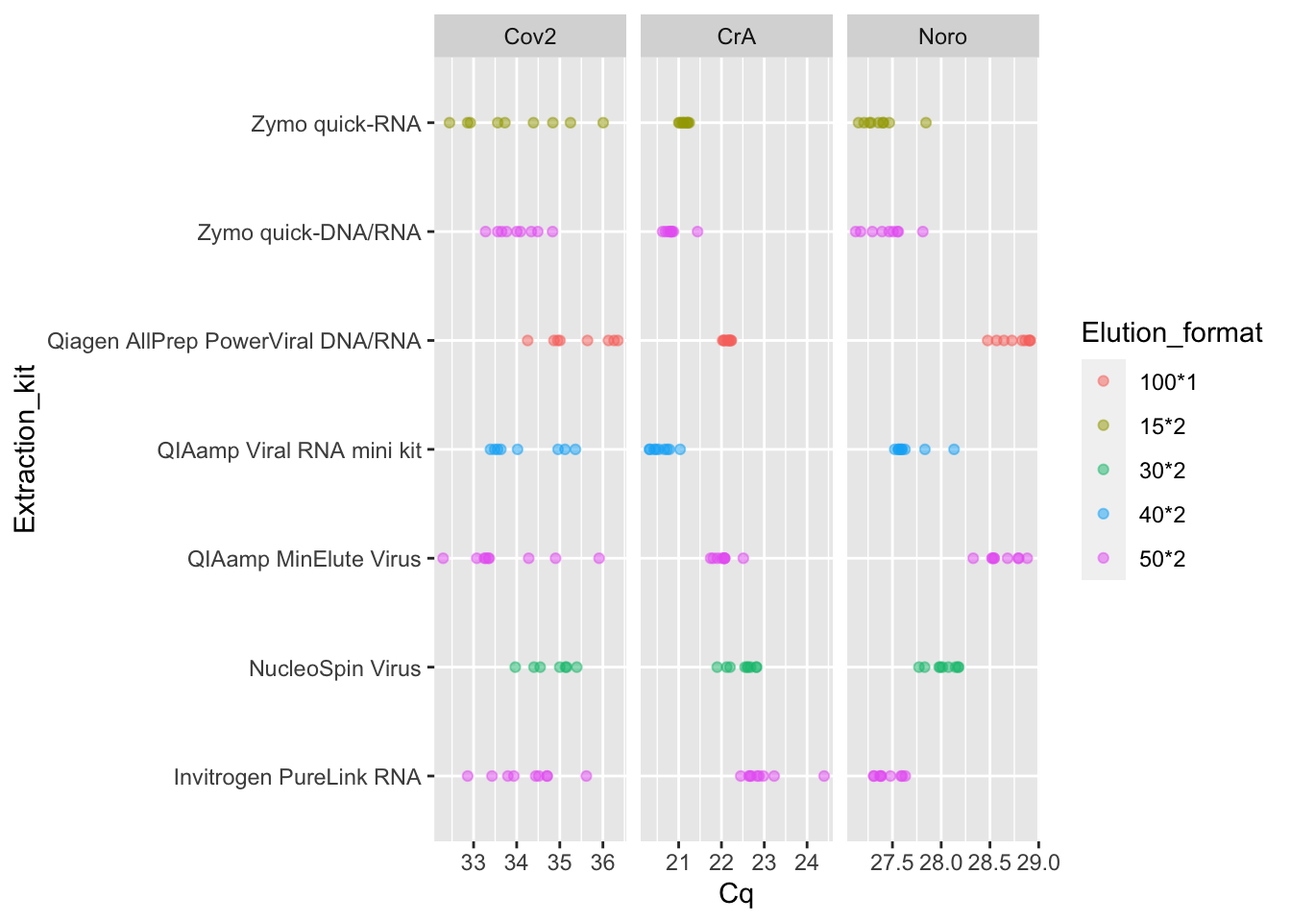
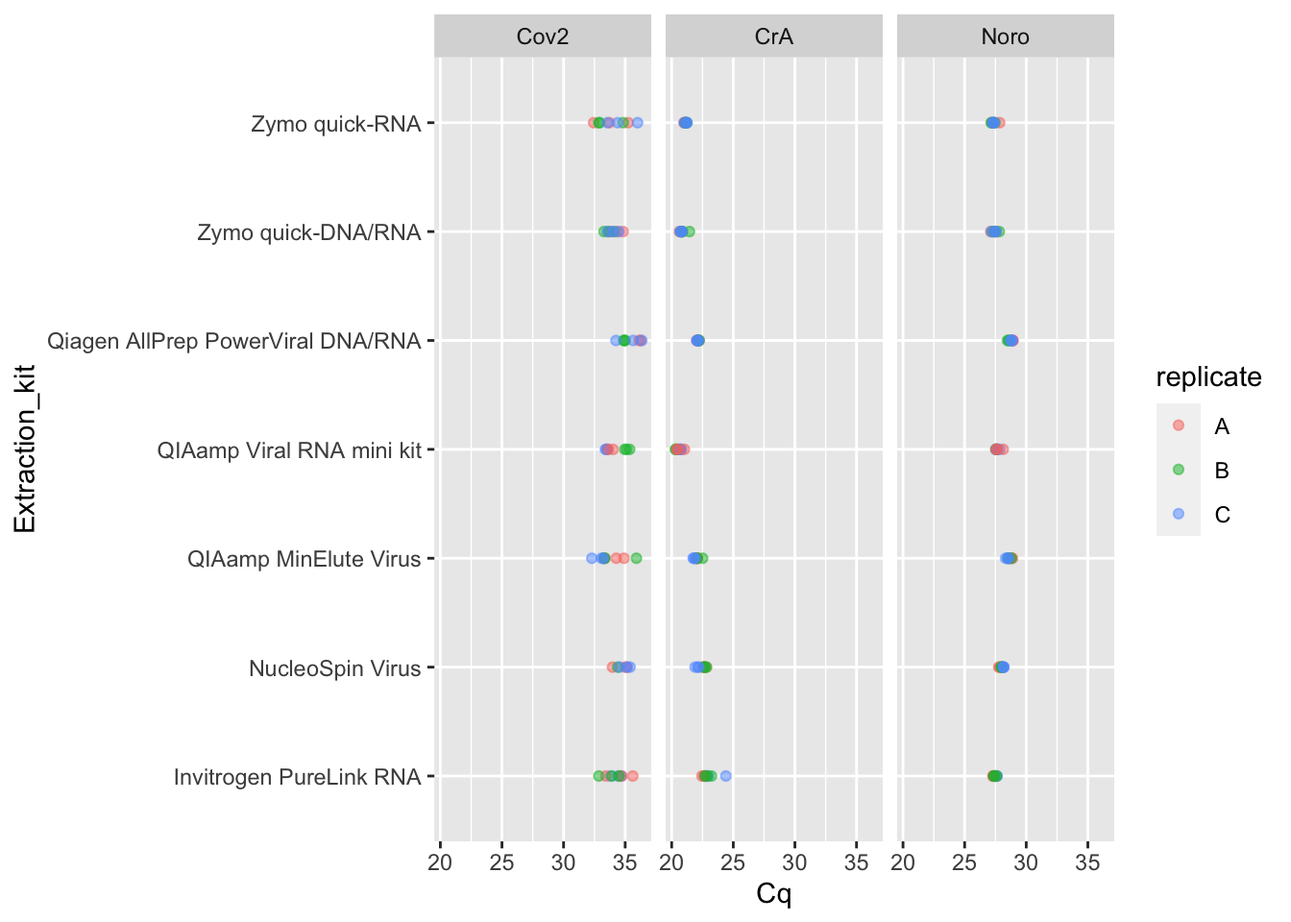
Improve figures

Changed region(s): [[0.3438, 0.0, 0.9688, 1.0], [0.875, 0.5, 0.9688, 0.5625], [0.875, 0.5938, 0.9062, 0.625]]

diff --git a/docs/notebooks/2023-09-15-qpcr_analysis.html b/docs/notebooks/2023-09-15-qpcr_analysis.html
@@ -171,18 +171,21 @@ Attaching package: 'dplyr'</code></pre>
     intersect, setdiff, setequal, union</code></pre>
 </div>
 <div class="sourceCode cell-code" id="cb5"><pre class="sourceCode r code-with-copy"><code class="sourceCode r"><span id="cb5-1"><a href="#cb5-1" aria-hidden="true" tabindex="-1"></a><span class="fu">library</span>(purrr)</span>
-<span id="cb5-2"><a href="#cb5-2" aria-hidden="true" tabindex="-1"></a></span>
-<span id="cb5-3"><a href="#cb5-3" aria-hidden="true" tabindex="-1"></a>data_dir <span class="ot">&lt;-</span> <span class="st">"~/airport/[2023-09-06] Extraction experiment 2: Settled Solids/"</span></span>
-<span id="cb5-4"><a href="#cb5-4" aria-hidden="true" tabindex="-1"></a>filename_pattern <span class="ot">&lt;-</span> <span class="st">"Results"</span></span></code><button title="Copy to Clipboard" class="code-copy-button"><i class="bi"></i></button></pre></div>
+<span id="cb5-2"><a href="#cb5-2" aria-hidden="true" tabindex="-1"></a><span class="fu">library</span>(stringr)</span>
+<span id="cb5-3"><a href="#cb5-3" aria-hidden="true" tabindex="-1"></a><span class="fu">library</span>(ggplot2)</span></code><button title="Copy to Clipboard" class="code-copy-button"><i class="bi"></i></button></pre></div>
 </div>
 <div class="cell">
-<div class="sourceCode cell-code" id="cb6"><pre class="sourceCode r code-with-copy"><code class="sourceCode r"><span id="cb6-1"><a href="#cb6-1" aria-hidden="true" tabindex="-1"></a>raw_data <span class="ot">&lt;-</span> <span class="fu">list.files</span>(</span>
-<span id="cb6-2"><a href="#cb6-2" aria-hidden="true" tabindex="-1"></a>                       <span class="fu">paste</span>(data_dir, <span class="st">"qpcr"</span>, <span class="at">sep=</span><span class="st">""</span>),</span>
-<span id="cb6-3"><a href="#cb6-3" aria-hidden="true" tabindex="-1"></a>                       <span class="at">pattern =</span> filename_pattern,</span>
-<span id="cb6-4"><a href="#cb6-4" aria-hidden="true" tabindex="-1"></a>                       <span class="at">full.names =</span> <span class="cn">TRUE</span></span>
-<span id="cb6-5"><a href="#cb6-5" aria-hidden="true" tabindex="-1"></a>                       ) <span class="sc">|&gt;</span></span>
-<span id="cb6-6"><a href="#cb6-6" aria-hidden="true" tabindex="-1"></a>  <span class="fu">map</span>(<span class="cf">function</span>(f) <span class="fu">read_csv</span>(f, <span class="at">skip=</span><span class="dv">23</span>)) <span class="sc">|&gt;</span></span>
-<span id="cb6-7"><a href="#cb6-7" aria-hidden="true" tabindex="-1"></a>  <span class="fu">list_rbind</span>()</span></code><button title="Copy to Clipboard" class="code-copy-button"><i class="bi"></i></button></pre></div>
+<div class="sourceCode cell-code" id="cb6"><pre class="sourceCode r code-with-copy"><code class="sourceCode r"><span id="cb6-1"><a href="#cb6-1" aria-hidden="true" tabindex="-1"></a>data_dir <span class="ot">&lt;-</span> <span class="st">"~/airport/[2023-09-06] Extraction experiment 2: Settled Solids/"</span></span>
+<span id="cb6-2"><a href="#cb6-2" aria-hidden="true" tabindex="-1"></a>filename_pattern <span class="ot">&lt;-</span> <span class="st">"Results"</span></span></code><button title="Copy to Clipboard" class="code-copy-button"><i class="bi"></i></button></pre></div>
+</div>
+<div class="cell">
+<div class="sourceCode cell-code" id="cb7"><pre class="sourceCode r code-with-copy"><code class="sourceCode r"><span id="cb7-1"><a href="#cb7-1" aria-hidden="true" tabindex="-1"></a>raw_data <span class="ot">&lt;-</span> <span class="fu">list.files</span>(</span>
+<span id="cb7-2"><a href="#cb7-2" aria-hidden="true" tabindex="-1"></a>                       <span class="fu">paste</span>(data_dir, <span class="st">"qpcr"</span>, <span class="at">sep=</span><span class="st">""</span>),</span>
+<span id="cb7-3"><a href="#cb7-3" aria-hidden="true" tabindex="-1"></a>                       <span class="at">pattern =</span> filename_pattern,</span>
+<span id="cb7-4"><a href="#cb7-4" aria-hidden="true" tabindex="-1"></a>                       <span class="at">full.names =</span> <span class="cn">TRUE</span></span>
+<span id="cb7-5"><a href="#cb7-5" aria-hidden="true" tabindex="-1"></a>                       ) <span class="sc">|&gt;</span></span>
+<span id="cb7-6"><a href="#cb7-6" aria-hidden="true" tabindex="-1"></a>  <span class="fu">map</span>(<span class="cf">function</span>(f) <span class="fu">read_csv</span>(f, <span class="at">skip=</span><span class="dv">23</span>)) <span class="sc">|&gt;</span></span>
+<span id="cb7-7"><a href="#cb7-7" aria-hidden="true" tabindex="-1"></a>  <span class="fu">list_rbind</span>()</span></code><button title="Copy to Clipboard" class="code-copy-button"><i class="bi"></i></button></pre></div>
 <div class="cell-output cell-output-stderr">
 <pre><code>Rows: 96 Columns: 21
 ── Column specification ────────────────────────────────────────────────────────
@@ -212,7 +215,7 @@ lgl (5): Omit, Curve Quality, Result Quality Issues, Auto Threshold, Auto Ba...
 ℹ Use `spec()` to retrieve the full column specification for this data.
 ℹ Specify the column types or set `show_col_types = FALSE` to quiet this message.</code></pre>
 </div>
-<div class="sourceCode cell-code" id="cb8"><pre class="sourceCode r code-with-copy"><code class="sourceCode r"><span id="cb8-1"><a href="#cb8-1" aria-hidden="true" tabindex="-1"></a><span class="fu">print</span>(raw_data)</span></code><button title="Copy to Clipboard" class="code-copy-button"><i class="bi"></i></button></pre></div>
+<div class="sourceCode cell-code" id="cb9"><pre class="sourceCode r code-with-copy"><code class="sourceCode r"><span id="cb9-1"><a href="#cb9-1" aria-hidden="true" tabindex="-1"></a><span class="fu">print</span>(raw_data)</span></code><button title="Copy to Clipboard" class="code-copy-button"><i class="bi"></i></button></pre></div>
 <div class="cell-output cell-output-stdout">
 <pre><code># A tibble: 288 × 21
     Well `Well Position` Omit  Sample Target Task     Reporter Quencher
@@ -236,7 +239,7 @@ lgl (5): Omit, Curve Quality, Result Quality Issues, Auto Threshold, Auto Ba...
 </div>
 </div>
 <div class="cell">
-<div class="sourceCode cell-code" id="cb10"><pre class="sourceCode r code-with-copy"><code class="sourceCode r"><span id="cb10-1"><a href="#cb10-1" aria-hidden="true" tabindex="-1"></a>metadata <span class="ot">&lt;-</span> <span class="fu">read_csv</span>(<span class="fu">paste</span>(data_dir, <span class="st">"[2023-09-11] Extraction Experiment 2 templates and results - sampleMetadata.csv"</span>, <span class="at">sep=</span><span class="st">""</span>))</span></code><button title="Copy to Clipboard" class="code-copy-button"><i class="bi"></i></button></pre></div>
+<div class="sourceCode cell-code" id="cb11"><pre class="sourceCode r code-with-copy"><code class="sourceCode r"><span id="cb11-1"><a href="#cb11-1" aria-hidden="true" tabindex="-1"></a>metadata <span class="ot">&lt;-</span> <span class="fu">read_csv</span>(<span class="fu">paste</span>(data_dir, <span class="st">"[2023-09-11] Extraction Experiment 2 templates and results - sampleMetadata.csv"</span>, <span class="at">sep=</span><span class="st">""</span>))</span></code><button title="Copy to Clipboard" class="code-copy-button"><i class="bi"></i></button></pre></div>
 <div class="cell-output cell-output-stderr">
 <pre><code>Rows: 21 Columns: 9
 ── Column specification ────────────────────────────────────────────────────────
@@ -248,7 +251,7 @@ lgl (1): FP_sampleID
 ℹ Use `spec()` to retrieve the full column specification for this data.
 ℹ Specify the column types or set `show_col_types = FALSE` to quiet this message.</code></pre>
 </div>
-<div class="sourceCode cell-code" id="cb12"><pre class="sourceCode r code-with-copy"><code class="sourceCode r"><span id="cb12-1"><a href="#cb12-1" aria-hidden="true" tabindex="-1"></a><span class="fu">glimpse</span>(metadata)</span></code><button title="Copy to Clipboard" class="code-copy-button"><i class="bi"></i></button></pre></div>
+<div class="sourceCode cell-code" id="cb13"><pre class="sourceCode r code-with-copy"><code class="sourceCode r"><span id="cb13-1"><a href="#cb13-1" aria-hidden="true" tabindex="-1"></a><span class="fu">glimpse</span>(metadata)</span></code><button title="Copy to Clipboard" class="code-copy-button"><i class="bi"></i></button></pre></div>
 <div class="cell-output cell-output-stdout">
 <pre><code>Rows: 21
 Columns: 9
@@ -264,24 +267,25 @@ $ FP_sampleID    &lt;lgl&gt; NA, NA, NA, NA, NA, NA, NA, NA, NA, NA, NA, NA, NA,
 </div>
 </div>
 <div class="cell">
-<div class="sourceCode cell-code" id="cb14"><pre class="sourceCode r code-with-copy"><code class="sourceCode r"><span id="cb14-1"><a href="#cb14-1" aria-hidden="true" tabindex="-1"></a>tidy_data <span class="ot">&lt;-</span> raw_data <span class="sc">|&gt;</span></span>
-<span id="cb14-2"><a href="#cb14-2" aria-hidden="true" tabindex="-1"></a>  <span class="fu">mutate</span>(</span>
-<span id="cb14-3"><a href="#cb14-3" aria-hidden="true" tabindex="-1"></a>    <span class="at">Cq =</span> <span class="fu">as.double</span>(Cq),</span>
-<span id="cb14-4"><a href="#cb14-4" aria-hidden="true" tabindex="-1"></a>  ) <span class="sc">|&gt;</span></span>
-<span id="cb14-5"><a href="#cb14-5" aria-hidden="true" tabindex="-1"></a>  <span class="fu">left_join</span>(</span>
-<span id="cb14-6"><a href="#cb14-6" aria-hidden="true" tabindex="-1"></a>    metadata,</span>
-<span id="cb14-7"><a href="#cb14-7" aria-hidden="true" tabindex="-1"></a>    <span class="at">by=</span><span class="fu">join_by</span>(Sample <span class="sc">==</span> Sample_ID)</span>
-<span id="cb14-8"><a href="#cb14-8" aria-hidden="true" tabindex="-1"></a>  )</span></code><button title="Copy to Clipboard" class="code-copy-button"><i class="bi"></i></button></pre></div>
+<div class="sourceCode cell-code" id="cb15"><pre class="sourceCode r code-with-copy"><code class="sourceCode r"><span id="cb15-1"><a href="#cb15-1" aria-hidden="true" tabindex="-1"></a>tidy_data <span class="ot">&lt;-</span> raw_data <span class="sc">|&gt;</span></span>
+<span id="cb15-2"><a href="#cb15-2" aria-hidden="true" tabindex="-1"></a>  <span class="fu">mutate</span>(</span>
+<span id="cb15-3"><a href="#cb15-3" aria-hidden="true" tabindex="-1"></a>    <span class="at">Cq =</span> <span class="fu">as.double</span>(Cq),</span>
+<span id="cb15-4"><a href="#cb15-4" aria-hidden="true" tabindex="-1"></a>    <span class="at">replicate =</span> <span class="fu">str_extract</span>(Sample, <span class="st">"[A-Z]"</span>)</span>
+<span id="cb15-5"><a href="#cb15-5" aria-hidden="true" tabindex="-1"></a>  ) <span class="sc">|&gt;</span></span>
+<span id="cb15-6"><a href="#cb15-6" aria-hidden="true" tabindex="-1"></a>  <span class="fu">left_join</span>(</span>
+<span id="cb15-7"><a href="#cb15-7" aria-hidden="true" tabindex="-1"></a>    metadata,</span>
+<span id="cb15-8"><a href="#cb15-8" aria-hidden="true" tabindex="-1"></a>    <span class="at">by=</span><span class="fu">join_by</span>(Sample <span class="sc">==</span> Sample_ID)</span>
+<span id="cb15-9"><a href="#cb15-9" aria-hidden="true" tabindex="-1"></a>  )</span></code><button title="Copy to Clipboard" class="code-copy-button"><i class="bi"></i></button></pre></div>
 <div class="cell-output cell-output-stderr">
 <pre><code>Warning: There was 1 warning in `mutate()`.
 ℹ In argument: `Cq = as.double(Cq)`.
 Caused by warning:
 ! NAs introduced by coercion</code></pre>
 </div>
-<div class="sourceCode cell-code" id="cb16"><pre class="sourceCode r code-with-copy"><code class="sourceCode r"><span id="cb16-1"><a href="#cb16-1" aria-hidden="true" tabindex="-1"></a><span class="fu">glimpse</span>(tidy_data)</span></code><button title="Copy to Clipboard" class="code-copy-button"><i class="bi"></i></button></pre></div>
+<div class="sourceCode cell-code" id="cb17"><pre class="sourceCode r code-with-copy"><code class="sourceCode r"><span id="cb17-1"><a href="#cb17-1" aria-hidden="true" tabindex="-1"></a><span class="fu">glimpse</span>(tidy_data)</span></code><button title="Copy to Clipboard" class="code-copy-button"><i class="bi"></i></button></pre></div>
 <div class="cell-output cell-output-stdout">
 <pre><code>Rows: 288
-Columns: 29
+Columns: 30
 $ Well                    &lt;dbl&gt; 1, 2, 3, 4, 5, 6, 7, 8, 9, 10, 11, 12, 13, 14,…
 $ `Well Position`         &lt;chr&gt; "A1", "A2", "A3", "A4", "A5", "A6", "A7", "A8"…
 $ Omit                    &lt;lgl&gt; FALSE, FALSE, FALSE, FALSE, FALSE, FALSE, FALS…
@@ -303,6 +307,7 @@ $ Threshold               &lt;dbl&gt; 0.04, 0.04, 0.04, 0.04, 0.04, 0.04, 0.04, 
 $ `Auto Baseline`         &lt;lgl&gt; TRUE, TRUE, TRUE, TRUE, TRUE, TRUE, TRUE, TRUE…
 $ `Baseline Start`        &lt;dbl&gt; 3, 3, 3, 3, 3, 3, 3, 3, 3, 3, 3, 3, 3, 3, 3, 3…
 $ `Baseline End`          &lt;dbl&gt; 29, 32, 30, 31, 31, 31, 31, 31, 31, 21, 21, 21…
+$ replicate               &lt;chr&gt; "A", "A", "A", "C", "C", "C", "B", "B", "B", N…
 $ Extraction_kit          &lt;chr&gt; "Zymo quick-RNA", "Zymo quick-RNA", "Zymo quic…
 $ Short_kit               &lt;chr&gt; "1_ZR", "1_ZR", "1_ZR", "3_IPL", "3_IPL", "3_I…
 $ `Kit Batch`             &lt;dbl&gt; 1, 1, 1, 1, 1, 1, 3, 3, 3, NA, NA, NA, 1, 1, 1…
@@ -313,37 +318,123 @@ $ NA_Target               &lt;chr&gt; "RNA", "RNA", "RNA", "RNA", "RNA", "RNA", 
 $ FP_sampleID             &lt;lgl&gt; NA, NA, NA, NA, NA, NA, NA, NA, NA, NA, NA, NA…</code></pre>
 </div>
 </div>
+<div class="cell">
+<div class="sourceCode cell-code" id="cb19"><pre class="sourceCode r code-with-copy"><code class="sourceCode r"><span id="cb19-1"><a href="#cb19-1" aria-hidden="true" tabindex="-1"></a><span class="fu">sort</span>(<span class="fu">unique</span>(tidy_data<span class="sc">$</span>Sample))</span></code><button title="Copy to Clipboard" class="code-copy-button"><i class="bi"></i></button></pre></div>
+<div class="cell-output cell-output-stdout">
+<pre><code> [1] "0.010000000000000002" "0.1"                  "1.0"                 
+ [4] "10.0"                 "100.0"                "1000.0"              
+ [7] "10000.0"              "1A"                   "1B"                  
+[10] "1C"                   "1C/10"                "1C/100"              
+[13] "2A"                   "2B"                   "2C"                  
+[16] "3.0E7"                "3000.0"               "30000.0"             
+[19] "300000.0"             "3000000.0"            "3A"                  
+[22] "3B"                   "3C"                   "3C/10"               
+[25] "3C/100"               "4A"                   "4B"                  
+[28] "4C"                   "5A"                   "5B"                  
+[31] "5C"                   "6A"                   "6B"                  
+[34] "6C"                   "6C/10"                "6C/100"              
+[37] "7A"                   "7B"                   "7C"                  
+[40] "7C/10"                "7C/100"              </code></pre>
+</div>
+</div>
 <section id="with-equal-cq-axes" class="level3">
 <h3 class="anchored" data-anchor-id="with-equal-cq-axes">With equal Cq axes</h3>
 <div class="cell">
-<div class="sourceCode cell-code" id="cb18"><pre class="sourceCode r code-with-copy"><code class="sourceCode r"><span id="cb18-1"><a href="#cb18-1" aria-hidden="true" tabindex="-1"></a><span class="fu">library</span>(ggplot2)</span>
-<span id="cb18-2"><a href="#cb18-2" aria-hidden="true" tabindex="-1"></a>tidy_data <span class="sc">|&gt;</span></span>
-<span id="cb18-3"><a href="#cb18-3" aria-hidden="true" tabindex="-1"></a>  <span class="fu">filter</span>(<span class="sc">!</span><span class="fu">is.na</span>(Extraction_kit)) <span class="sc">|&gt;</span></span>
-<span id="cb18-4"><a href="#cb18-4" aria-hidden="true" tabindex="-1"></a>  <span class="fu">ggplot</span>(<span class="at">mapping =</span> <span class="fu">aes</span>(<span class="at">x=</span>Cq, <span class="at">y=</span>Extraction_kit, <span class="at">color=</span>Elution_format)) <span class="sc">+</span></span>
-<span id="cb18-5"><a href="#cb18-5" aria-hidden="true" tabindex="-1"></a>  <span class="fu">geom_point</span>(<span class="at">alpha=</span><span class="fl">0.5</span>) <span class="sc">+</span></span>
-<span id="cb18-6"><a href="#cb18-6" aria-hidden="true" tabindex="-1"></a>  <span class="fu">facet_wrap</span>(<span class="at">facets =</span> <span class="sc">~</span>Target)</span></code><button title="Copy to Clipboard" class="code-copy-button"><i class="bi"></i></button></pre></div>
+<div class="sourceCode cell-code" id="cb21"><pre class="sourceCode r code-with-copy"><code class="sourceCode r"><span id="cb21-1"><a href="#cb21-1" aria-hidden="true" tabindex="-1"></a>tidy_data <span class="sc">|&gt;</span></span>
+<span id="cb21-2"><a href="#cb21-2" aria-hidden="true" tabindex="-1"></a>  <span class="fu">filter</span>(<span class="sc">!</span><span class="fu">is.na</span>(Extraction_kit)) <span class="sc">|&gt;</span></span>
+<span id="cb21-3"><a href="#cb21-3" aria-hidden="true" tabindex="-1"></a>  <span class="fu">ggplot</span>(<span class="at">mapping =</span> <span class="fu">aes</span>(<span class="at">x=</span>Cq,</span>
+<span id="cb21-4"><a href="#cb21-4" aria-hidden="true" tabindex="-1"></a>                       <span class="at">y=</span>Extraction_kit,</span>
+<span id="cb21-5"><a href="#cb21-5" aria-hidden="true" tabindex="-1"></a>                       <span class="at">color=</span>replicate,</span>
+<span id="cb21-6"><a href="#cb21-6" aria-hidden="true" tabindex="-1"></a>                       )</span>
+<span id="cb21-7"><a href="#cb21-7" aria-hidden="true" tabindex="-1"></a>  ) <span class="sc">+</span></span>
+<span id="cb21-8"><a href="#cb21-8" aria-hidden="true" tabindex="-1"></a>  <span class="fu">stat_summary</span>(</span>
+<span id="cb21-9"><a href="#cb21-9" aria-hidden="true" tabindex="-1"></a>    <span class="at">fun.min =</span> min,</span>
+<span id="cb21-10"><a href="#cb21-10" aria-hidden="true" tabindex="-1"></a>    <span class="at">fun.max =</span> max,</span>
+<span id="cb21-11"><a href="#cb21-11" aria-hidden="true" tabindex="-1"></a>    <span class="at">fun =</span> median,</span>
+<span id="cb21-12"><a href="#cb21-12" aria-hidden="true" tabindex="-1"></a>    <span class="at">position =</span> <span class="fu">position_dodge</span>(<span class="at">width =</span> <span class="fl">0.2</span>),</span>
+<span id="cb21-13"><a href="#cb21-13" aria-hidden="true" tabindex="-1"></a>    <span class="at">size =</span> <span class="fl">0.2</span></span>
+<span id="cb21-14"><a href="#cb21-14" aria-hidden="true" tabindex="-1"></a>  ) <span class="sc">+</span> </span>
+<span id="cb21-15"><a href="#cb21-15" aria-hidden="true" tabindex="-1"></a>  <span class="fu">facet_wrap</span>(<span class="at">facets =</span> <span class="sc">~</span>Target)</span></code><button title="Copy to Clipboard" class="code-copy-button"><i class="bi"></i></button></pre></div>
 <div class="cell-output cell-output-stderr">
-<pre><code>Warning: Removed 4 rows containing missing values (`geom_point()`).</code></pre>
+<pre><code>Warning: Removed 4 rows containing non-finite values (`stat_summary()`).</code></pre>
 </div>
 <div class="cell-output-display">
-<p><img src="2023-09-15-qpcr_analysis_files/figure-html/unnamed-chunk-5-1.png" class="img-fluid" width="672"></p>
+<p><img src="2023-09-15-qpcr_analysis_files/figure-html/unnamed-chunk-7-1.png" class="img-fluid" width="672"></p>
 </div>
 </div>
 </section>
 <section id="with-free-cq-axes" class="level3">
 <h3 class="anchored" data-anchor-id="with-free-cq-axes">With free Cq axes</h3>
 <div class="cell">
-<div class="sourceCode cell-code" id="cb20"><pre class="sourceCode r code-with-copy"><code class="sourceCode r"><span id="cb20-1"><a href="#cb20-1" aria-hidden="true" tabindex="-1"></a><span class="fu">library</span>(ggplot2)</span>
-<span id="cb20-2"><a href="#cb20-2" aria-hidden="true" tabindex="-1"></a>tidy_data <span class="sc">|&gt;</span></span>
-<span id="cb20-3"><a href="#cb20-3" aria-hidden="true" tabindex="-1"></a>  <span class="fu">filter</span>(<span class="sc">!</span><span class="fu">is.na</span>(Extraction_kit)) <span class="sc">|&gt;</span></span>
-<span id="cb20-4"><a href="#cb20-4" aria-hidden="true" tabindex="-1"></a>  <span class="fu">ggplot</span>(<span class="at">mapping =</span> <span class="fu">aes</span>(<span class="at">x=</span>Cq, <span class="at">y=</span>Extraction_kit, <span class="at">color=</span>Elution_format)) <span class="sc">+</span></span>
-<span id="cb20-5"><a href="#cb20-5" aria-hidden="true" tabindex="-1"></a>  <span class="fu">geom_point</span>(<span class="at">alpha=</span><span class="fl">0.5</span>) <span class="sc">+</span></span>
-<span id="cb20-6"><a href="#cb20-6" aria-hidden="true" tabindex="-1"></a>  <span class="fu">facet_wrap</span>(<span class="at">facets =</span> <span class="sc">~</span>Target, <span class="at">scales=</span><span class="st">"free_x"</span>)</span></code><button title="Copy to Clipboard" class="code-copy-button"><i class="bi"></i></button></pre></div>
+<div class="sourceCode cell-code" id="cb23"><pre class="sourceCode r code-with-copy"><code class="sourceCode r"><span id="cb23-1"><a href="#cb23-1" aria-hidden="true" tabindex="-1"></a>tidy_data <span class="sc">|&gt;</span></span>
+<span id="cb23-2"><a href="#cb23-2" aria-hidden="true" tabindex="-1"></a>  <span class="fu">filter</span>(<span class="sc">!</span><span class="fu">is.na</span>(Extraction_kit)) <span class="sc">|&gt;</span></span>
+<span id="cb23-3"><a href="#cb23-3" aria-hidden="true" tabindex="-1"></a>  <span class="fu">ggplot</span>(<span class="at">mapping =</span> <span class="fu">aes</span>(<span class="at">x=</span>Cq,</span>
+<span id="cb23-4"><a href="#cb23-4" aria-hidden="true" tabindex="-1"></a>                       <span class="at">y=</span>Extraction_kit,</span>
+<span id="cb23-5"><a href="#cb23-5" aria-hidden="true" tabindex="-1"></a>                       <span class="at">color=</span>replicate,</span>
+<span id="cb23-6"><a href="#cb23-6" aria-hidden="true" tabindex="-1"></a>                       )</span>
+<span id="cb23-7"><a href="#cb23-7" aria-hidden="true" tabindex="-1"></a>  ) <span class="sc">+</span></span>
+<span id="cb23-8"><a href="#cb23-8" aria-hidden="true" tabindex="-1"></a>  <span class="fu">stat_summary</span>(</span>
+<span id="cb23-9"><a href="#cb23-9" aria-hidden="true" tabindex="-1"></a>    <span class="at">fun.min =</span> min,</span>
+<span id="cb23-10"><a href="#cb23-10" aria-hidden="true" tabindex="-1"></a>    <span class="at">fun.max =</span> max,</span>
+<span id="cb23-11"><a href="#cb23-11" aria-hidden="true" tabindex="-1"></a>    <span class="at">fun =</span> median,</span>
+<span id="cb23-12"><a href="#cb23-12" aria-hidden="true" tabindex="-1"></a>    <span class="at">position =</span> <span class="fu">position_dodge</span>(<span class="at">width =</span> <span class="fl">0.2</span>),</span>
+<span id="cb23-13"><a href="#cb23-13" aria-hidden="true" tabindex="-1"></a>    <span class="at">size =</span> <span class="fl">0.2</span></span>
+<span id="cb23-14"><a href="#cb23-14" aria-hidden="true" tabindex="-1"></a>  ) <span class="sc">+</span> </span>
+<span id="cb23-15"><a href="#cb23-15" aria-hidden="true" tabindex="-1"></a>  <span class="fu">facet_wrap</span>(<span class="at">facets =</span> <span class="sc">~</span>Target, <span class="at">scales=</span><span class="st">"free_x"</span>)</span></code><button title="Copy to Clipboard" class="code-copy-button"><i class="bi"></i></button></pre></div>
 <div class="cell-output cell-output-stderr">
-<pre><code>Warning: Removed 4 rows containing missing values (`geom_point()`).</code></pre>
+<pre><code>Warning: Removed 4 rows containing non-finite values (`stat_summary()`).</code></pre>
 </div>
 <div class="cell-output-display">
-<p><img src="2023-09-15-qpcr_analysis_files/figure-html/unnamed-chunk-6-1.png" class="img-fluid" width="672"></p>
+<p><img src="2023-09-15-qpcr_analysis_files/figure-html/unnamed-chunk-8-1.png" class="img-fluid" width="672"></p>
+</div>
+</div>
+<p>Check that the overlapping points really do have three values</p>
+<div class="cell">
+<div class="sourceCode cell-code" id="cb25"><pre class="sourceCode r code-with-copy"><code class="sourceCode r"><span id="cb25-1"><a href="#cb25-1" aria-hidden="true" tabindex="-1"></a>tidy_data <span class="sc">|&gt;</span></span>
+<span id="cb25-2"><a href="#cb25-2" aria-hidden="true" tabindex="-1"></a>  <span class="fu">filter</span>(<span class="sc">!</span><span class="fu">is.na</span>(Extraction_kit), <span class="fu">is.na</span>(Cq)) <span class="sc">|&gt;</span></span>
+<span id="cb25-3"><a href="#cb25-3" aria-hidden="true" tabindex="-1"></a>  <span class="fu">count</span>(Target, Extraction_kit, Sample) <span class="sc">|&gt;</span></span>
+<span id="cb25-4"><a href="#cb25-4" aria-hidden="true" tabindex="-1"></a>  <span class="fu">print</span>()</span></code><button title="Copy to Clipboard" class="code-copy-button"><i class="bi"></i></button></pre></div>
+<div class="cell-output cell-output-stdout">
+<pre><code># A tibble: 3 × 4
+  Target Extraction_kit                    Sample     n
+  &lt;chr&gt;  &lt;chr&gt;                             &lt;chr&gt;  &lt;int&gt;
+1 Cov2   NucleoSpin Virus                  4B         2
+2 Cov2   QIAamp Viral RNA mini kit         6A         1
+3 Cov2   Qiagen AllPrep PowerViral DNA/RNA 7A         1</code></pre>
+</div>
+</div>
+<div class="cell">
+<div class="sourceCode cell-code" id="cb27"><pre class="sourceCode r code-with-copy"><code class="sourceCode r"><span id="cb27-1"><a href="#cb27-1" aria-hidden="true" tabindex="-1"></a>tidy_data <span class="sc">|&gt;</span></span>
+<span id="cb27-2"><a href="#cb27-2" aria-hidden="true" tabindex="-1"></a>    <span class="fu">filter</span>(Extraction_kit<span class="sc">==</span><span class="st">"Zymo quick-RNA"</span>,</span>
+<span id="cb27-3"><a href="#cb27-3" aria-hidden="true" tabindex="-1"></a>           Target<span class="sc">==</span><span class="st">"CrA"</span>, replicate<span class="sc">==</span><span class="st">"A"</span>) <span class="sc">|&gt;</span></span>
+<span id="cb27-4"><a href="#cb27-4" aria-hidden="true" tabindex="-1"></a>    <span class="fu">print</span>(<span class="at">width=</span><span class="cn">Inf</span>)</span></code><button title="Copy to Clipboard" class="code-copy-button"><i class="bi"></i></button></pre></div>
+<div class="cell-output cell-output-stdout">
+<pre><code># A tibble: 3 × 30
+   Well `Well Position` Omit  Sample Target Task    Reporter Quencher
+  &lt;dbl&gt; &lt;chr&gt;           &lt;lgl&gt; &lt;chr&gt;  &lt;chr&gt;  &lt;chr&gt;   &lt;chr&gt;    &lt;chr&gt;   
+1     1 A1              FALSE 1A     CrA    UNKNOWN FAM      NFQ-MGB 
+2     2 A2              FALSE 1A     CrA    UNKNOWN FAM      NFQ-MGB 
+3     3 A3              FALSE 1A     CrA    UNKNOWN FAM      NFQ-MGB 
+  `Amp Status` `Amp Score` `Curve Quality` `Result Quality Issues`    Cq
+  &lt;chr&gt;              &lt;dbl&gt; &lt;lgl&gt;           &lt;lgl&gt;                   &lt;dbl&gt;
+1 AMP                 1.41 NA              NA                       21.1
+2 AMP                 1.43 NA              NA                       21.0
+3 AMP                 1.42 NA              NA                       21.1
+  `Cq Confidence` `Cq Mean` `Cq SD` `Auto Threshold` Threshold `Auto Baseline`
+            &lt;dbl&gt;     &lt;dbl&gt;   &lt;dbl&gt; &lt;lgl&gt;                &lt;dbl&gt; &lt;lgl&gt;          
+1           0.989      21.1  0.0535 TRUE                 0.175 TRUE           
+2           0.989      21.1  0.0535 TRUE                 0.175 TRUE           
+3           0.989      21.1  0.0535 TRUE                 0.175 TRUE           
+  `Baseline Start` `Baseline End` replicate Extraction_kit Short_kit `Kit Batch`
+             &lt;dbl&gt;          &lt;dbl&gt; &lt;chr&gt;     &lt;chr&gt;          &lt;chr&gt;           &lt;dbl&gt;
+1                3             16 A         Zymo quick-RNA 1_ZR                1
+2                3             15 A         Zymo quick-RNA 1_ZR                1
+3                3             16 A         Zymo quick-RNA 1_ZR                1
+  Elution_volume Elution_format Brand NA_Target FP_sampleID
+           &lt;dbl&gt; &lt;chr&gt;          &lt;chr&gt; &lt;chr&gt;     &lt;lgl&gt;      
+1             30 15*2           Zymo  RNA       NA         
+2             30 15*2           Zymo  RNA       NA         
+3             30 15*2           Zymo  RNA       NA         </code></pre>
 </div>
 </div>
 </section>
@@ -351,9 +442,11 @@ $ FP_sampleID             &lt;lgl&gt; NA, NA, NA, NA, NA, NA, NA, NA, NA, NA, NA
 <section id="todo" class="level2">
 <h2 class="anchored" data-anchor-id="todo">TODO</h2>
 <ul>
+<li>Boxplots</li>
 <li>There are a few NaNs that show up as missing points and aren’t evident in the plot. Will investigate later.</li>
 <li>Standard curve data</li>
 <li>Amplification curves</li>
+<li>Diluted samples</li>
 </ul>
 
 

diff --git a/docs/index.html b/docs/index.html
@@ -129,9 +129,9 @@ ul.task-list li input[type="checkbox"] {
 
 <div class="quarto-listing quarto-listing-container-default" id="listing-listing">
 <div class="list quarto-listing-default">
-<div class="quarto-post image-right" data-index="0" data-listing-date-sort="1694750400000" data-listing-file-modified-sort="1694791658433" data-listing-date-modified-sort="NaN" data-listing-reading-time-sort="2">
+<div class="quarto-post image-right" data-index="0" data-listing-date-sort="1694750400000" data-listing-file-modified-sort="1694796573761" data-listing-date-modified-sort="NaN" data-listing-reading-time-sort="4">
 <div class="thumbnail">
-<p><a href="./notebooks/2023-09-15-qpcr_analysis.html"> <p class="card-img-top"><img src="notebooks/2023-09-15-qpcr_analysis_files/figure-html/unnamed-chunk-5-1.png"  class="thumbnail-image card-img"/></p> </a></p>
+<p><a href="./notebooks/2023-09-15-qpcr_analysis.html"> <p class="card-img-top"><img src="notebooks/2023-09-15-qpcr_analysis_files/figure-html/unnamed-chunk-7-1.png"  class="thumbnail-image card-img"/></p> </a></p>
 </div>
 <div class="body">
 <a href="./notebooks/2023-09-15-qpcr_analysis.html">
